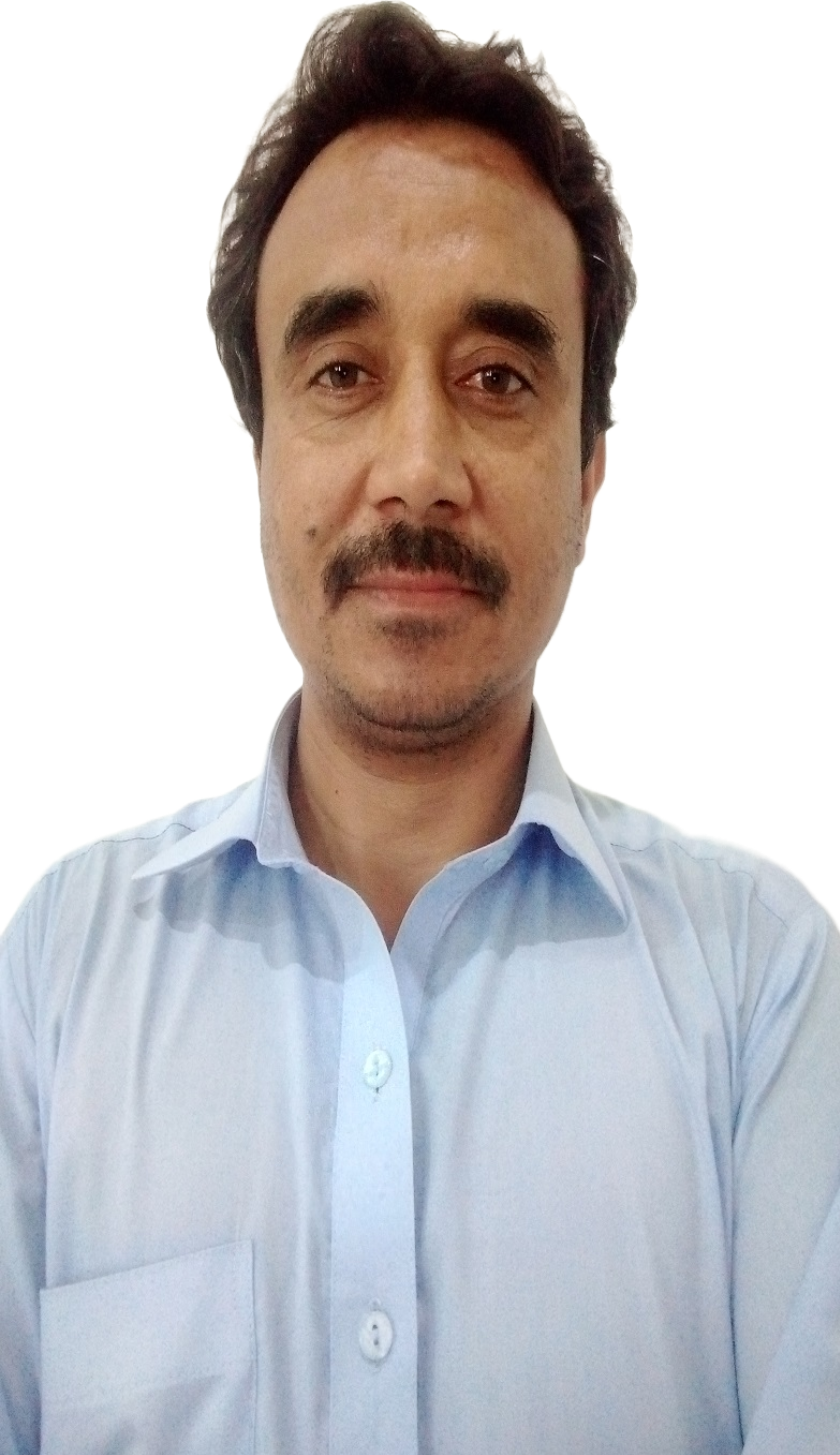
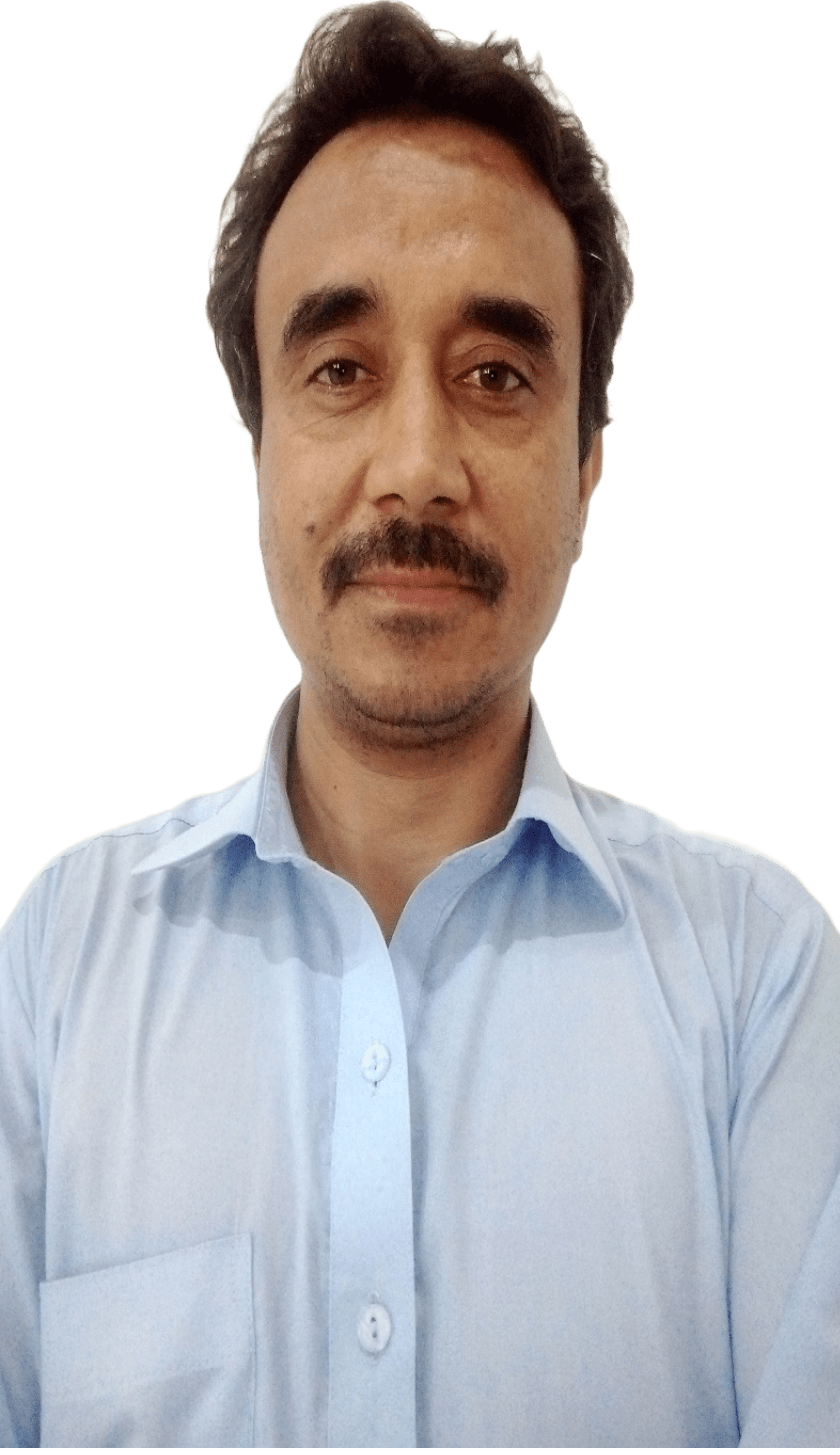
updated index.html file

diff --git a/index.html b/index.html
@@ -155,14 +155,12 @@
             </div>
 
             <p class="about__description">
-              I’m a web developer. My weapons of choice are JavaScript,
-              React.js, Node.js, MongoDB, Firebase, PostgreSQL and GraphQL. For
-              UX/UI design, I use Figma. Besides vanilla CSS, I love to style
-              UIs with TailwindCSS. I build websites that delight and inform. I
-              do it well. I love to challenge myself to learn new technology and
-              strengthen my skill base. I do my best to stay on top of changes
-              in the state of the art so that I can meet challenges with tools
-              well suited to the job at hand.
+              I’m a web developer. I have experience and skills in coding
+              frontend as well as fullstack web apps. I build websites that
+              delight and inform. I do it well. I love to challenge myself to
+              learn new technology and strengthen my skill base. I do my best to
+              stay on top of changes in the state of the art so that I can meet
+              challenges with tools well suited to the job at hand.
             </p>
 
             <a href="#contact" class="button">Conact Me</a>

diff --git a/assets/css/styles.css b/assets/css/styles.css
@@ -108,7 +108,6 @@ button {
 
 img {
   max-width: 100%;
-  height: 260px;
 }
 
 /*=============== THEME ===============*/
